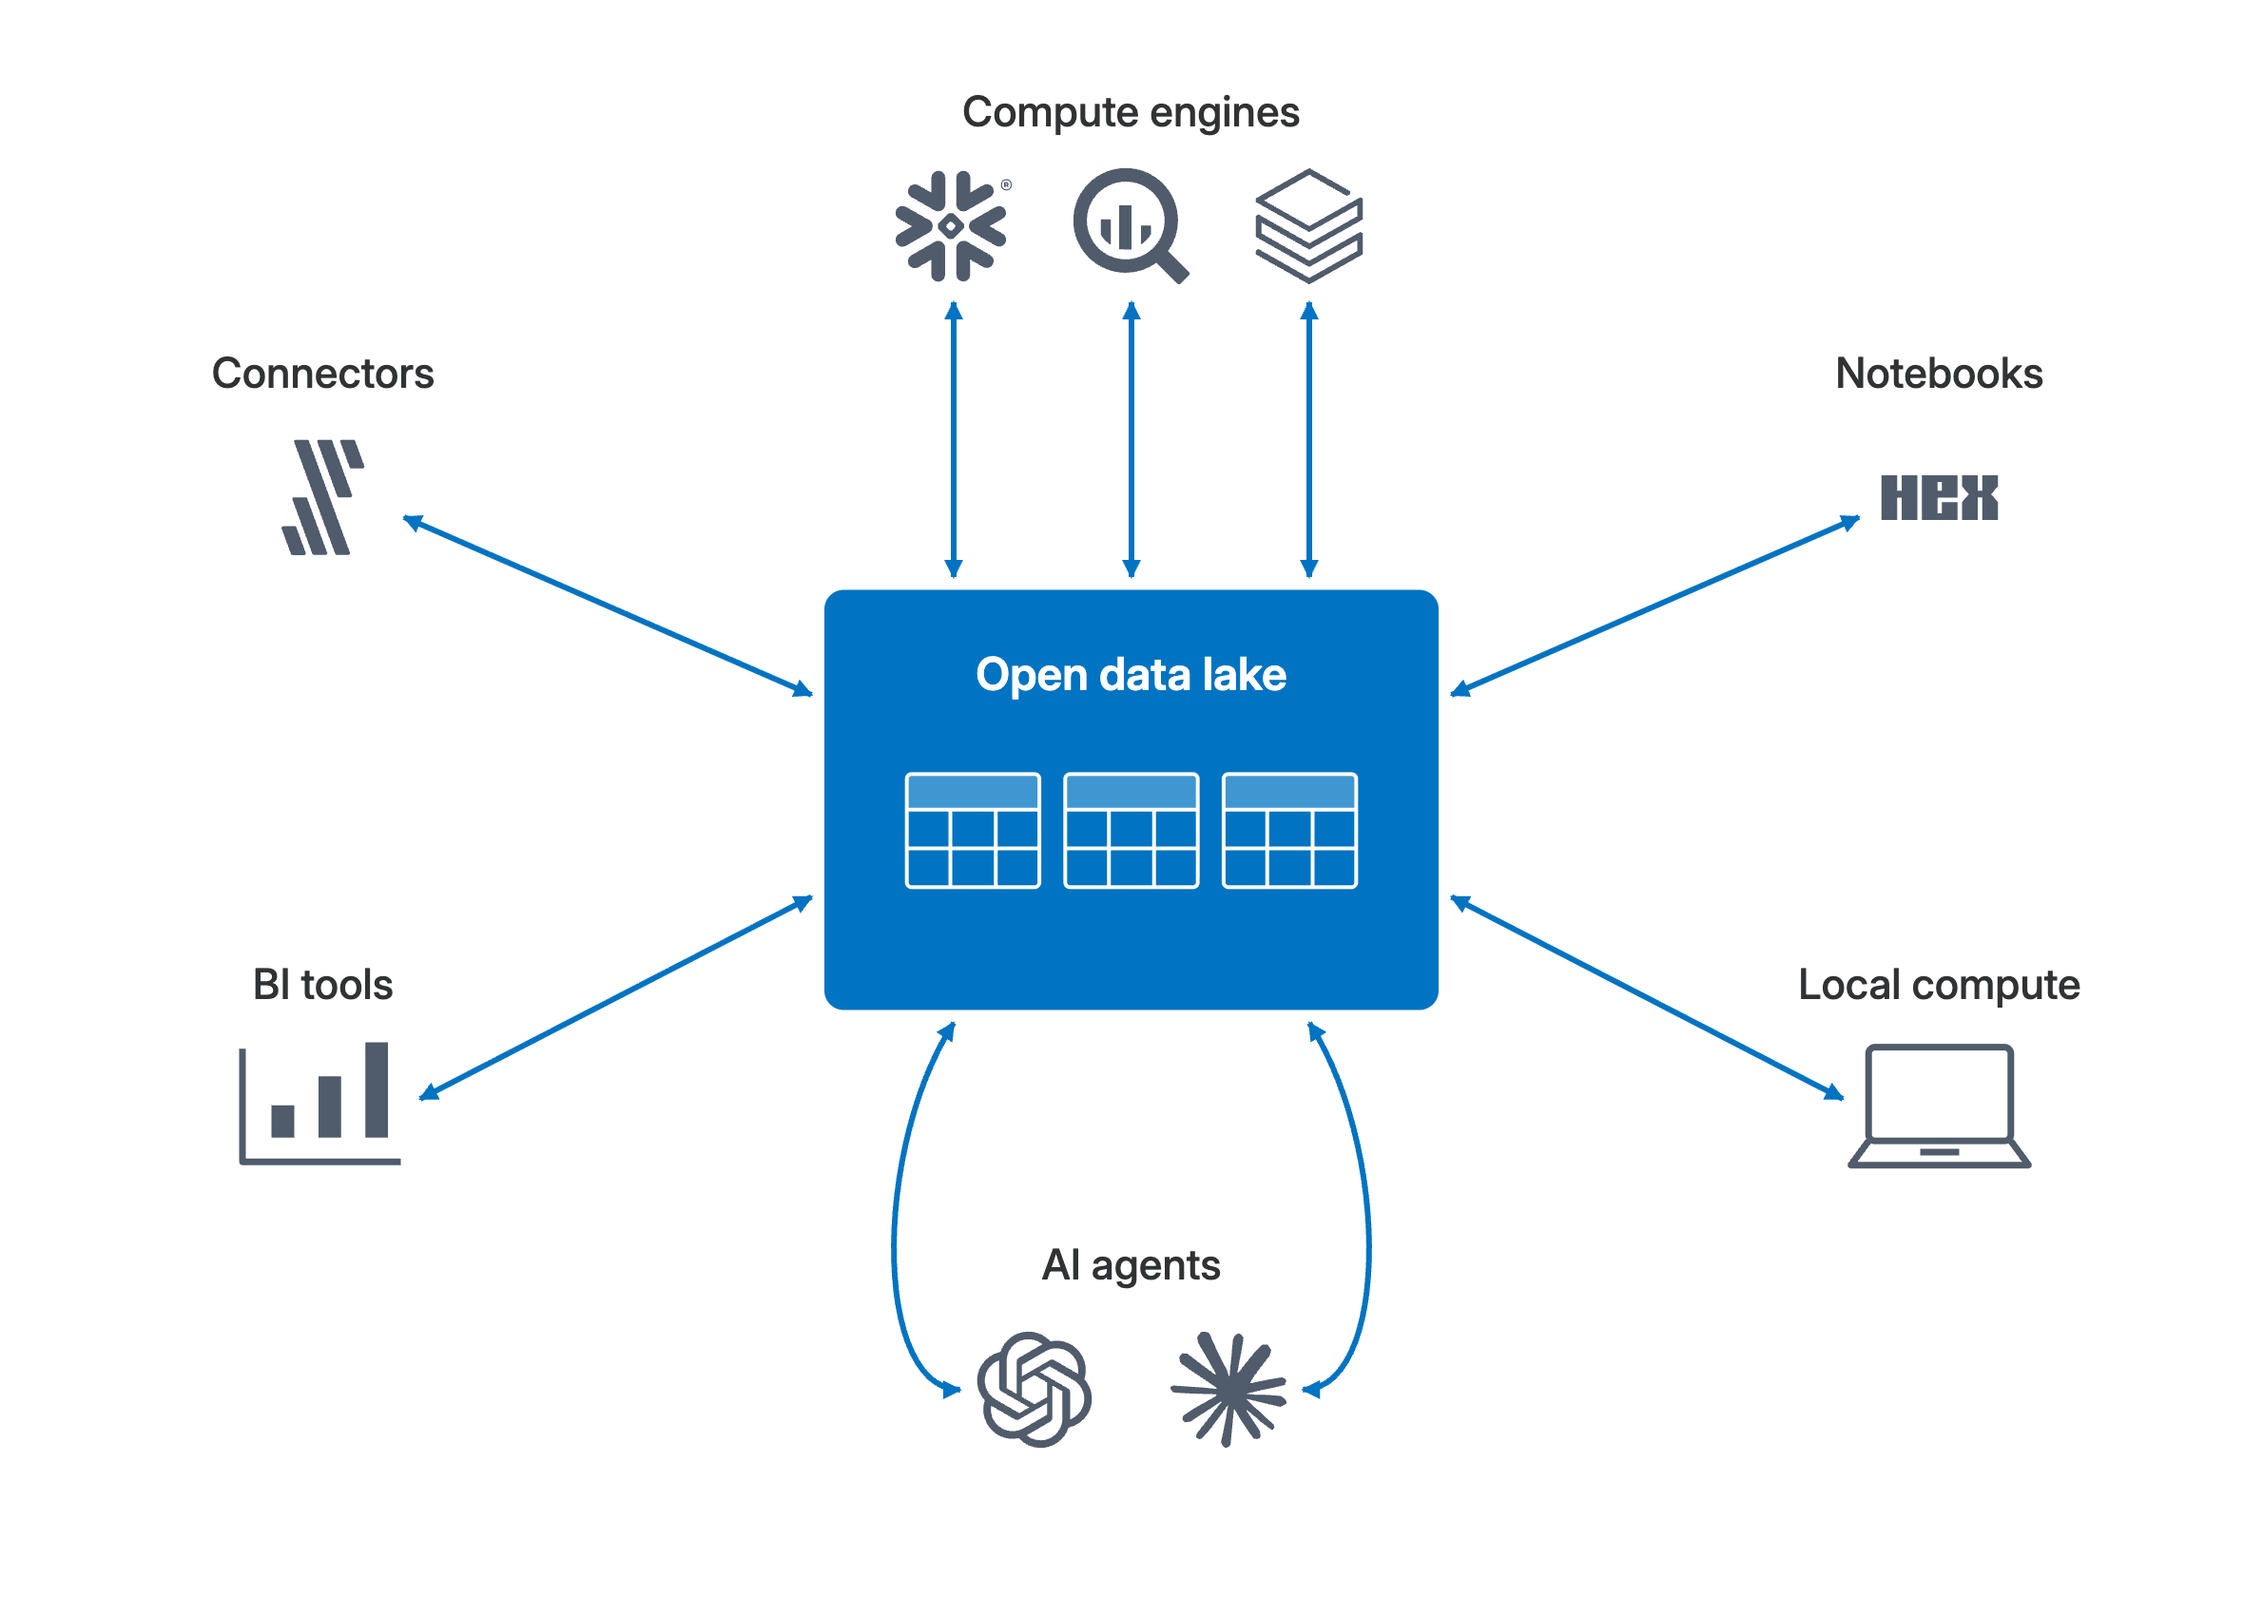
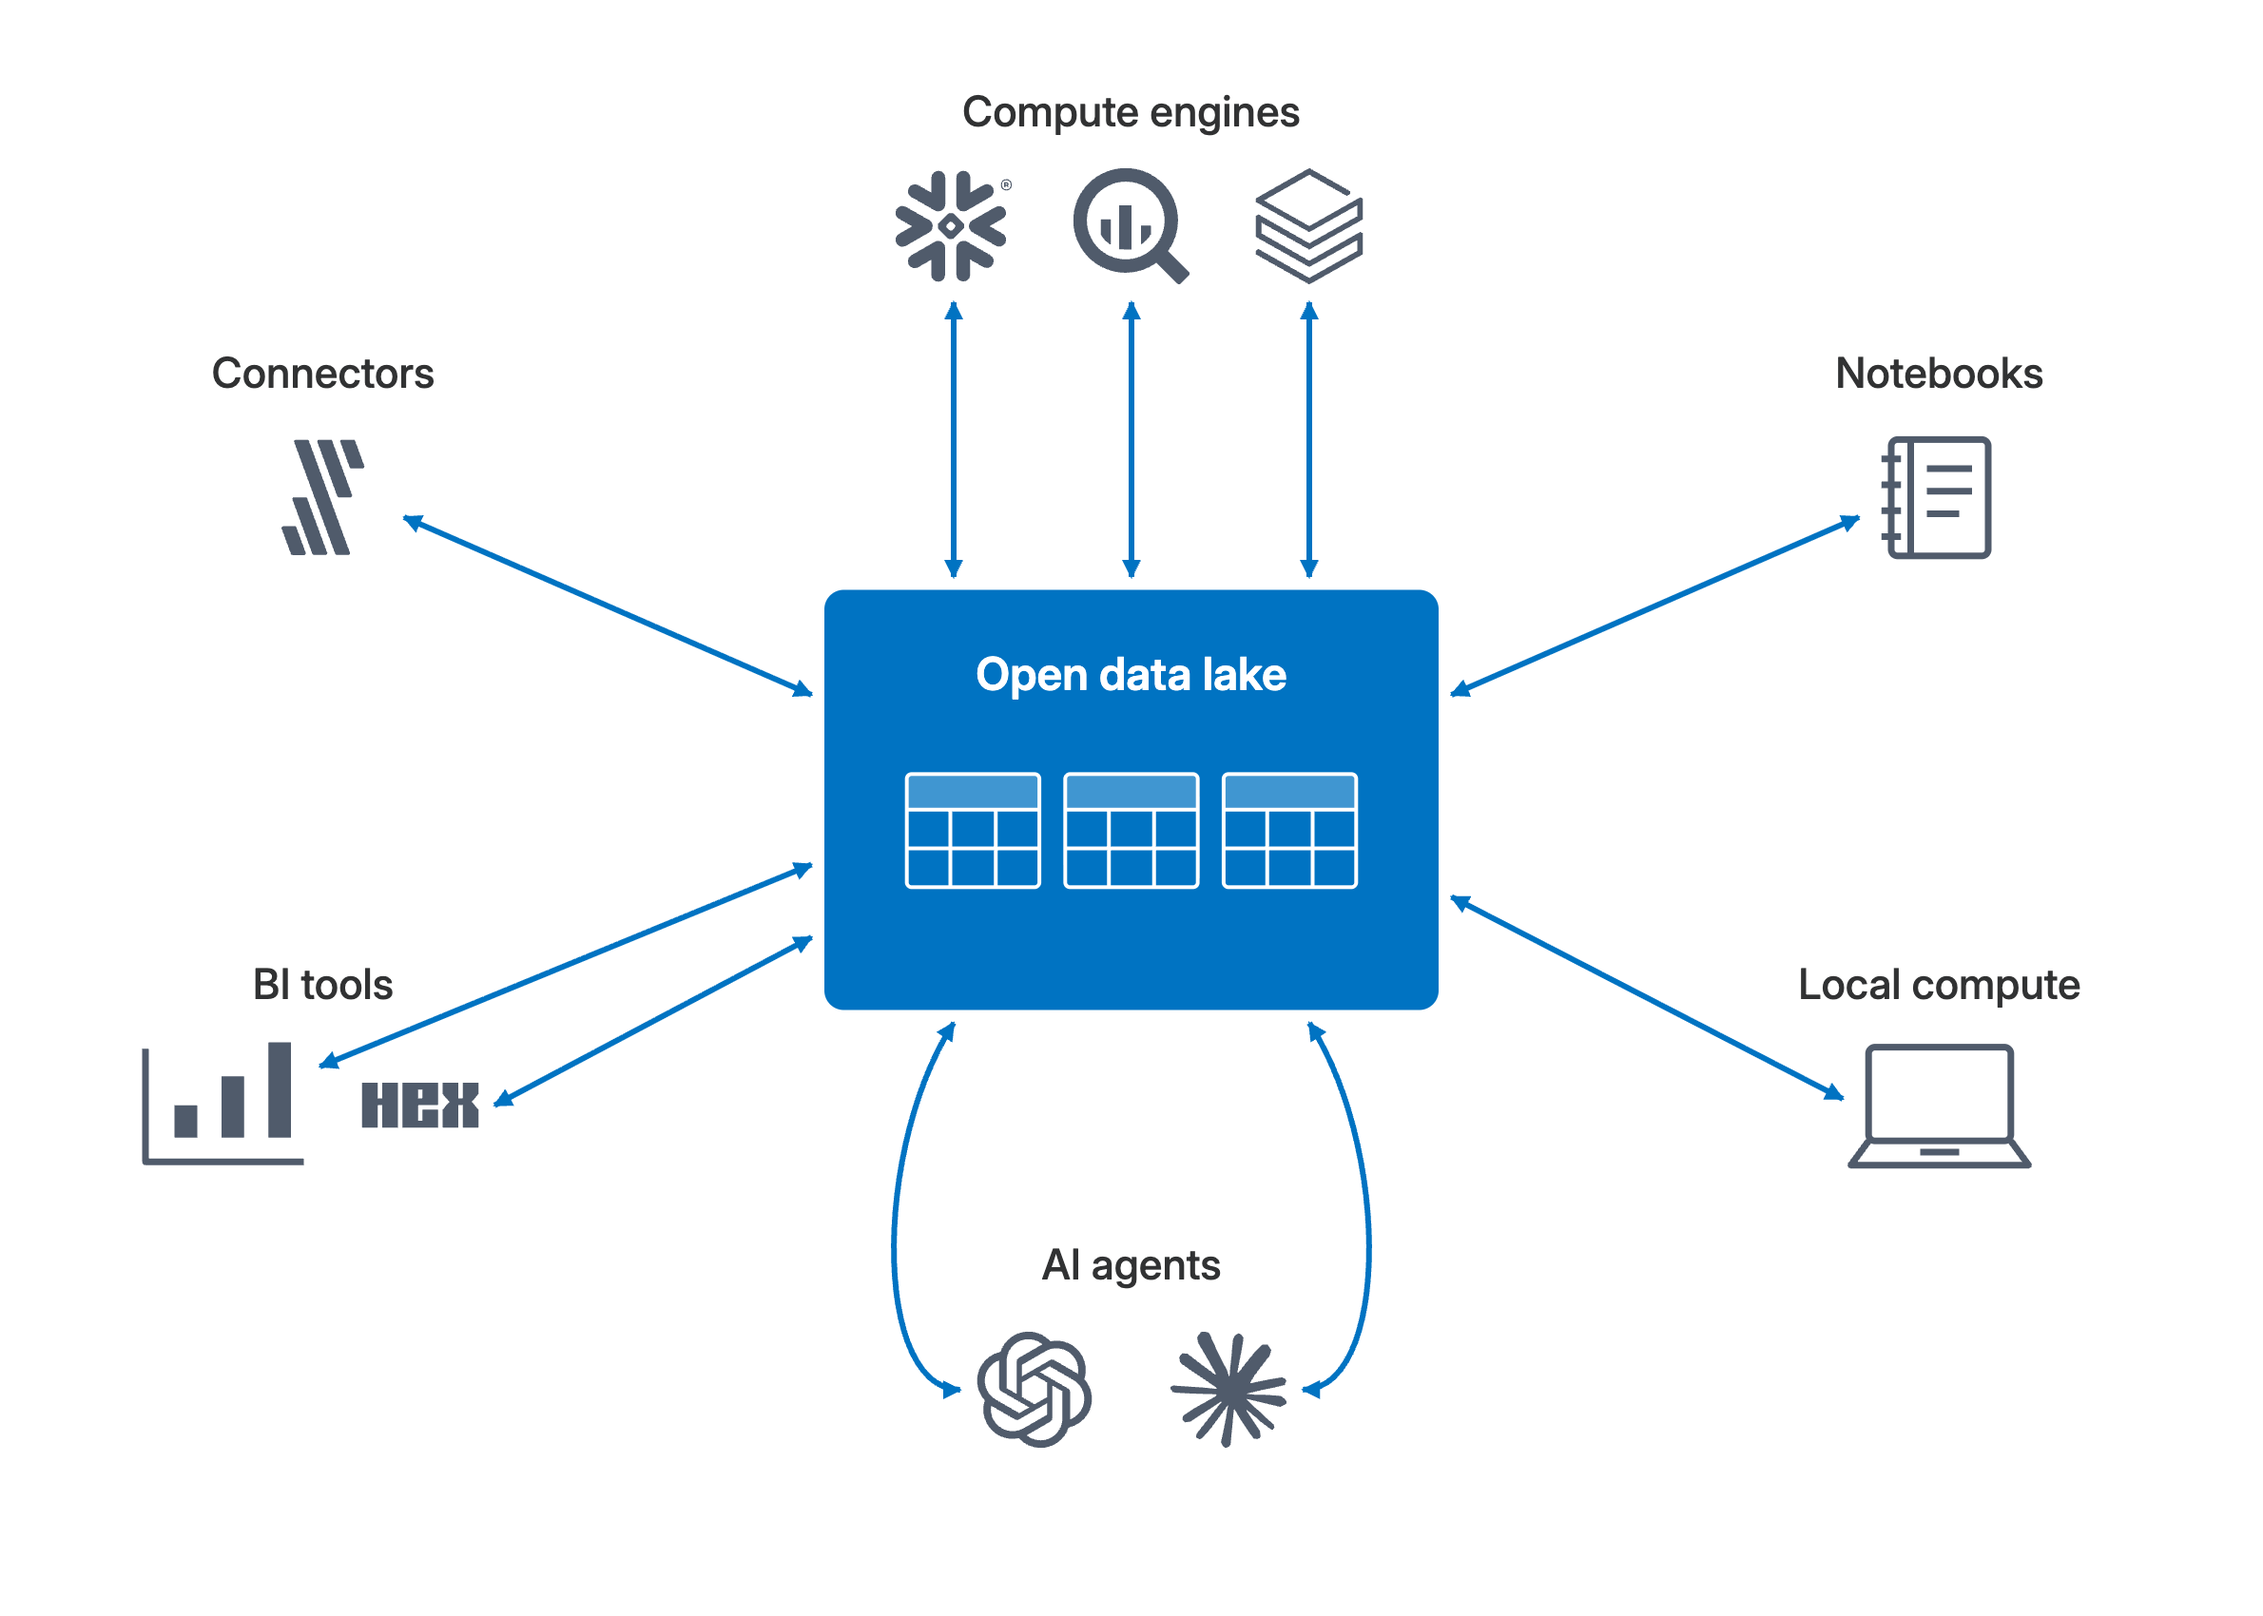
Move Hex into the BI tools cluster in the open data lake chart

Changed region(s): [[0.0622, 0.53, 0.3731, 0.7482], [0.8084, 0.2494, 0.9017, 0.3741]]

diff --git a/charts/render_open_data_lake.py b/charts/render_open_data_lake.py
@@ -39,8 +39,8 @@ def diagram():
       <title id="title">Open data lake</title>
       <desc id="description">Iceberg tables at the center of an open data lake.
         Six labeled icon clusters connect directly to the lake: compute engines
-        (Snowflake, BigQuery, Databricks), connectors (Fivetran), notebooks (Hex),
-        AI agents (ChatGPT and Claude), BI tools (a chart), and local compute
+        (Snowflake, BigQuery, Databricks), connectors (Fivetran), notebooks (a notebook),
+        AI agents (ChatGPT and Claude), BI tools (a chart and Hex), and local compute
         (a laptop). Conceptual architecture; adapters and execution engines
         are abstracted.</desc>
       <style>
@@ -57,7 +57,8 @@ def diagram():
     for path in [
         'M 590 187 L 590 357', 'M 700 187 L 700 357', 'M 810 187 L 810 357',
         'M 250 320 L 502 430', 'M 1150 320 L 898 430',
-        'M 260 680 L 502 555', 'M 1140 680 L 898 555',
+        'M 198 660 L 502 535', 'M 306 684 L 502 580',
+        'M 1140 680 L 898 555',
         'M 590 633 C 540 710 540 860 594 860',
         'M 810 633 C 860 710 860 860 806 860',
     ]:
@@ -74,15 +75,19 @@ def diagram():
     for name, x, y in [
         ('snowflake', 590, 140), ('googlebigquery', 700, 140),
         ('databricks', 810, 140), ('fivetran', 200, 308),
-        ('hex', 1200, 308), ('openai', 640, 860), ('claude', 760, 860),
+        ('hex', 260, 684), ('openai', 640, 860), ('claude', 760, 860),
     ]:
         parts.append(brand_icon(name, x, y, gray))
 
-    # Generic chart and laptop glyphs use the same restrained monochrome ink.
+    # Generic chart, notebook, and laptop glyphs use the same monochrome ink.
     parts.append(f'''<g fill="none" stroke="{gray}" stroke-width="3.5" stroke-linejoin="round">
-      <path d="M 150 649 V 719 H 248"/>
-      <path d="M 168 704 V 684 H 182 V 704 Z M 197 704 V 666 H 211 V 704 Z
-        M 226 704 V 645 H 240 V 704 Z" fill="{gray}" stroke="none"/>
+      <path d="M 90 649 V 719 H 188"/>
+      <path d="M 108 704 V 684 H 122 V 704 Z M 137 704 V 666 H 151 V 704 Z
+        M 166 704 V 645 H 180 V 704 Z" fill="{gray}" stroke="none"/>
+      <rect x="1170" y="272" width="60" height="72" rx="4"/>
+      <path d="M 1182 272 V 344 M 1164 284 H 1176 M 1164 300 H 1176
+        M 1164 316 H 1176 M 1164 332 H 1176 M 1192 290 H 1220
+        M 1192 304 H 1220 M 1192 318 H 1212"/>
       <rect x="1156" y="648" width="88" height="58" rx="4"/>
       <path d="M 1156 706 L 1145 721 H 1255 L 1244 706 M 1188 713 H 1212"/>
       </g>''')

diff --git a/CHARTS.md b/CHARTS.md
@@ -109,8 +109,8 @@ uv run --python 3.12 --with dbt-charts==0.8.0 --with playwright==1.56.0 python c
 [charts/open_data_lake.png](charts/open_data_lake.png) places table icons in
 the center beneath “Open data lake,” with no “Iceberg tables” label. Six floating
 labels group the surrounding icons: compute engines (Snowflake, BigQuery,
-Databricks), connectors (Fivetran), notebooks (Hex), AI agents (ChatGPT, Claude),
-BI tools (a chart), and local compute (a laptop). Each icon connects directly to
+Databricks), connectors (Fivetran), notebooks (a notebook), AI agents (ChatGPT, Claude),
+BI tools (a chart and Hex), and local compute (a laptop). Each icon connects directly to
 the lake. The surrounding icons have no enclosing boxes. This is a conceptual architecture:
 connections abstract away adapters and execution engines, and do not claim
 that every product natively reads and writes Iceberg files itself.
@@ -121,7 +121,7 @@ and editable [SVG](charts/open_data_lake.svg).
 [The retained icon paths](charts/open_data_lake_icons.json) include their source
 URLs: Simple Icons 16.0.0 (Snowflake, BigQuery, Databricks, Claude), Simple Icons
 13.0.0 (OpenAI), and the official Fivetran and Hex sites. The brand symbols are
-rendered in monochrome; the chart and laptop are drawn by the renderer. All
+rendered in monochrome; the chart, notebook, and laptop are drawn by the renderer. All
 assets are local, so rendering requires no network access. Use Google Chrome or set
 `PUPPETEER_EXECUTABLE_PATH` to Chromium:
 
